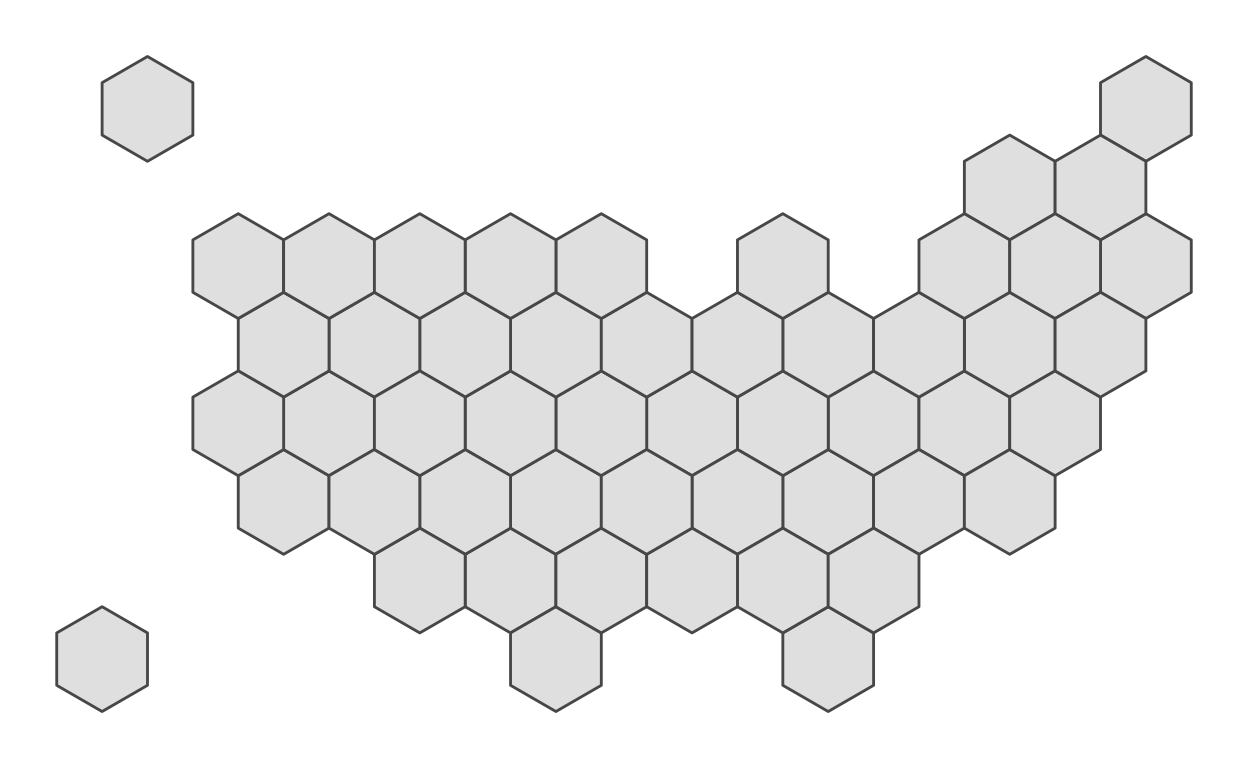
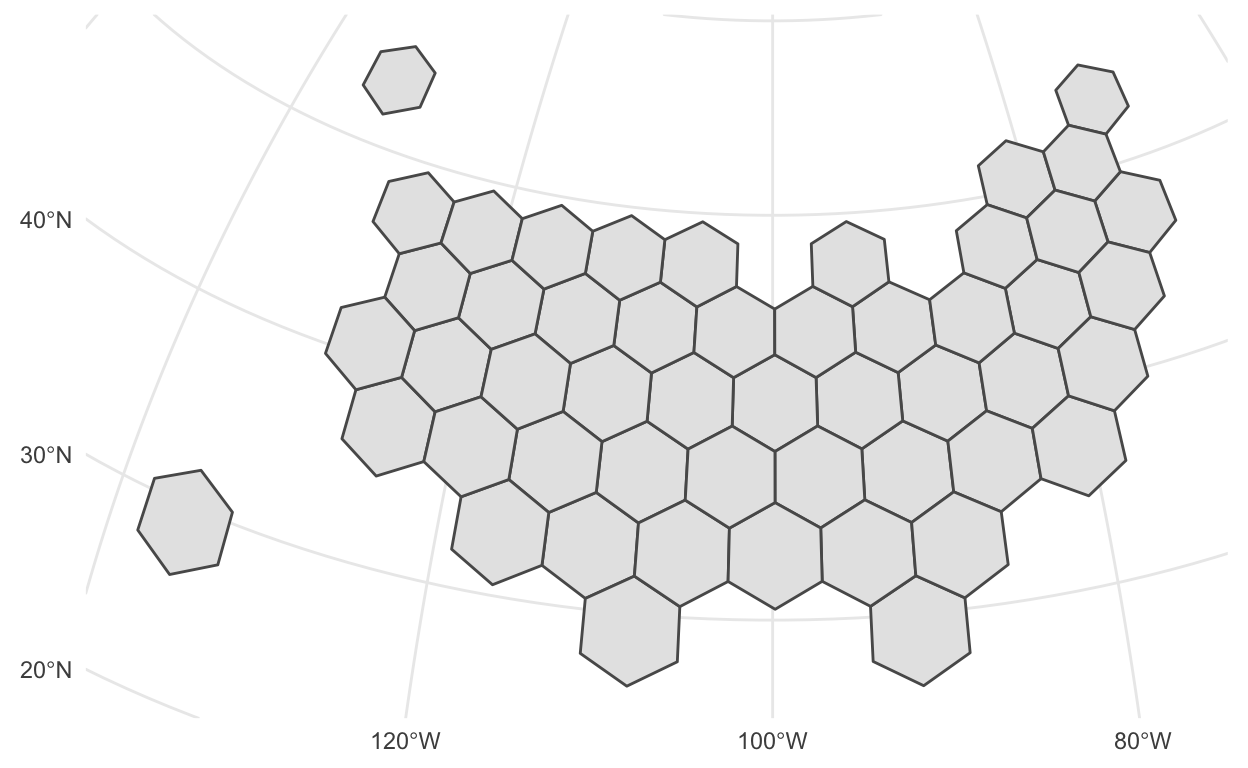
edit

diff --git a/_posts/2022-04-02-create-a-hex-grid-map-of-us-states-in-1-minute/create-a-hex-grid-map-of-us-states-in-1-minute.html b/_posts/2022-04-02-create-a-hex-grid-map-of-us-states-in-1-minute/create-a-hex-grid-map-of-us-states-in-1-minute.html
@@ -1529,22 +1529,38 @@ code span.wa { color: #5e5e5e; font-style: italic; } /* Warning */
 <p><img src="create-a-hex-grid-map-of-us-states-in-1-minute_files/figure-html5/unnamed-chunk-6-1.png" width="624" /></p>
 </div>
 <div class="layout-chunk" data-layout="l-body">
-<div class="sourceCode" id="cb7"><pre class="sourceCode r"><code class="sourceCode r"><span id="cb7-1"><a href="#cb7-1" aria-hidden="true" tabindex="-1"></a>cents <span class="ot">&lt;-</span> hex <span class="sc">%&gt;%</span> </span>
-<span id="cb7-2"><a href="#cb7-2" aria-hidden="true" tabindex="-1"></a>  <span class="fu">st_centroid</span>() <span class="sc">%&gt;%</span> </span>
-<span id="cb7-3"><a href="#cb7-3" aria-hidden="true" tabindex="-1"></a>  <span class="fu">select</span>(state, iso3166_2)</span>
-<span id="cb7-4"><a href="#cb7-4" aria-hidden="true" tabindex="-1"></a></span>
-<span id="cb7-5"><a href="#cb7-5" aria-hidden="true" tabindex="-1"></a>cents <span class="ot">&lt;-</span> cents <span class="sc">%&gt;%</span> </span>
-<span id="cb7-6"><a href="#cb7-6" aria-hidden="true" tabindex="-1"></a>  <span class="fu">st_coordinates</span>() <span class="sc">%&gt;%</span></span>
-<span id="cb7-7"><a href="#cb7-7" aria-hidden="true" tabindex="-1"></a>  <span class="fu">as.data.frame</span>() <span class="sc">%&gt;%</span> </span>
-<span id="cb7-8"><a href="#cb7-8" aria-hidden="true" tabindex="-1"></a>  <span class="fu">tibble</span>() <span class="sc">%&gt;%</span> </span>
-<span id="cb7-9"><a href="#cb7-9" aria-hidden="true" tabindex="-1"></a>  <span class="fu">mutate</span>(<span class="at">label =</span> cents<span class="sc">$</span>iso3166_2)</span></code></pre></div>
+<div class="sourceCode" id="cb7"><pre class="sourceCode r"><code class="sourceCode r"><span id="cb7-1"><a href="#cb7-1" aria-hidden="true" tabindex="-1"></a>latitude <span class="ot">&lt;-</span> <span class="dv">38</span></span>
+<span id="cb7-2"><a href="#cb7-2" aria-hidden="true" tabindex="-1"></a>longitude <span class="ot">&lt;-</span> <span class="sc">-</span><span class="dv">100</span></span>
+<span id="cb7-3"><a href="#cb7-3" aria-hidden="true" tabindex="-1"></a></span>
+<span id="cb7-4"><a href="#cb7-4" aria-hidden="true" tabindex="-1"></a>ortho <span class="ot">&lt;-</span> <span class="fu">paste0</span>(<span class="st">&#39;+proj=ortho +lat_0=&#39;</span>, latitude, <span class="st">&#39; +lon_0=&#39;</span>, longitude,</span>
+<span id="cb7-5"><a href="#cb7-5" aria-hidden="true" tabindex="-1"></a>                <span class="st">&#39; +x_0=0 +y_0=0 +a=6371000 +b=6371000 +units=m +no_defs&#39;</span>)</span>
+<span id="cb7-6"><a href="#cb7-6" aria-hidden="true" tabindex="-1"></a></span>
+<span id="cb7-7"><a href="#cb7-7" aria-hidden="true" tabindex="-1"></a></span>
+<span id="cb7-8"><a href="#cb7-8" aria-hidden="true" tabindex="-1"></a>hex <span class="sc">%&gt;%</span> </span>
+<span id="cb7-9"><a href="#cb7-9" aria-hidden="true" tabindex="-1"></a>  <span class="fu">st_transform</span>(ortho) <span class="sc">%&gt;%</span> </span>
+<span id="cb7-10"><a href="#cb7-10" aria-hidden="true" tabindex="-1"></a>  <span class="fu">ggplot</span>() <span class="sc">+</span></span>
+<span id="cb7-11"><a href="#cb7-11" aria-hidden="true" tabindex="-1"></a>  <span class="fu">geom_sf</span>(<span class="at">data =</span> hex) <span class="sc">+</span></span>
+<span id="cb7-12"><a href="#cb7-12" aria-hidden="true" tabindex="-1"></a>  <span class="fu">theme_minimal</span>()</span></code></pre></div>
+<p><img src="create-a-hex-grid-map-of-us-states-in-1-minute_files/figure-html5/unnamed-chunk-7-1.png" width="624" /></p>
 </div>
 <div class="layout-chunk" data-layout="l-body">
-<div class="sourceCode" id="cb8"><pre class="sourceCode r"><code class="sourceCode r"><span id="cb8-1"><a href="#cb8-1" aria-hidden="true" tabindex="-1"></a><span class="fu">ggplot</span>() <span class="sc">+</span></span>
-<span id="cb8-2"><a href="#cb8-2" aria-hidden="true" tabindex="-1"></a>  <span class="fu">geom_sf</span>(<span class="at">data =</span> hex, <span class="at">fill =</span> <span class="st">&quot;steelblue1&quot;</span>, <span class="at">color =</span> <span class="st">&quot;white&quot;</span>, <span class="at">size =</span> .<span class="dv">65</span>) <span class="sc">+</span></span>
-<span id="cb8-3"><a href="#cb8-3" aria-hidden="true" tabindex="-1"></a>  <span class="fu">geom_shadowtext</span>(<span class="at">data =</span> cents, <span class="fu">aes</span>(<span class="at">x =</span> X, <span class="at">y =</span> Y, <span class="at">label =</span> label)) <span class="sc">+</span></span>
-<span id="cb8-4"><a href="#cb8-4" aria-hidden="true" tabindex="-1"></a>  <span class="fu">theme_void</span>()</span></code></pre></div>
-<p><img src="create-a-hex-grid-map-of-us-states-in-1-minute_files/figure-html5/unnamed-chunk-8-1.png" width="624" /></p>
+<div class="sourceCode" id="cb8"><pre class="sourceCode r"><code class="sourceCode r"><span id="cb8-1"><a href="#cb8-1" aria-hidden="true" tabindex="-1"></a>cents <span class="ot">&lt;-</span> hex <span class="sc">%&gt;%</span> </span>
+<span id="cb8-2"><a href="#cb8-2" aria-hidden="true" tabindex="-1"></a>  <span class="fu">st_centroid</span>() <span class="sc">%&gt;%</span> </span>
+<span id="cb8-3"><a href="#cb8-3" aria-hidden="true" tabindex="-1"></a>  <span class="fu">select</span>(state, iso3166_2)</span>
+<span id="cb8-4"><a href="#cb8-4" aria-hidden="true" tabindex="-1"></a></span>
+<span id="cb8-5"><a href="#cb8-5" aria-hidden="true" tabindex="-1"></a>cents <span class="ot">&lt;-</span> cents <span class="sc">%&gt;%</span> </span>
+<span id="cb8-6"><a href="#cb8-6" aria-hidden="true" tabindex="-1"></a>  <span class="fu">st_coordinates</span>() <span class="sc">%&gt;%</span></span>
+<span id="cb8-7"><a href="#cb8-7" aria-hidden="true" tabindex="-1"></a>  <span class="fu">as.data.frame</span>() <span class="sc">%&gt;%</span> </span>
+<span id="cb8-8"><a href="#cb8-8" aria-hidden="true" tabindex="-1"></a>  <span class="fu">tibble</span>() <span class="sc">%&gt;%</span> </span>
+<span id="cb8-9"><a href="#cb8-9" aria-hidden="true" tabindex="-1"></a>  <span class="fu">mutate</span>(<span class="at">label =</span> cents<span class="sc">$</span>iso3166_2)</span></code></pre></div>
+</div>
+<p><a href="http://joshuamccrain.com/tutorials/ggplot_maps/maps_tutorial.html" class="uri">http://joshuamccrain.com/tutorials/ggplot_maps/maps_tutorial.html</a></p>
+<div class="layout-chunk" data-layout="l-body">
+<div class="sourceCode" id="cb9"><pre class="sourceCode r"><code class="sourceCode r"><span id="cb9-1"><a href="#cb9-1" aria-hidden="true" tabindex="-1"></a><span class="fu">ggplot</span>() <span class="sc">+</span></span>
+<span id="cb9-2"><a href="#cb9-2" aria-hidden="true" tabindex="-1"></a>  <span class="fu">geom_sf</span>(<span class="at">data =</span> hex, <span class="at">fill =</span> <span class="st">&quot;steelblue1&quot;</span>, <span class="at">color =</span> <span class="st">&quot;white&quot;</span>, <span class="at">size =</span> .<span class="dv">65</span>) <span class="sc">+</span></span>
+<span id="cb9-3"><a href="#cb9-3" aria-hidden="true" tabindex="-1"></a>  <span class="fu">geom_shadowtext</span>(<span class="at">data =</span> cents, <span class="fu">aes</span>(<span class="at">x =</span> X, <span class="at">y =</span> Y, <span class="at">label =</span> label)) <span class="sc">+</span></span>
+<span id="cb9-4"><a href="#cb9-4" aria-hidden="true" tabindex="-1"></a>  <span class="fu">theme_void</span>()</span></code></pre></div>
+<p><img src="create-a-hex-grid-map-of-us-states-in-1-minute_files/figure-html5/unnamed-chunk-9-1.png" width="624" /></p>
 </div>
 <!--radix_placeholder_article_footer-->
 <!--/radix_placeholder_article_footer-->
